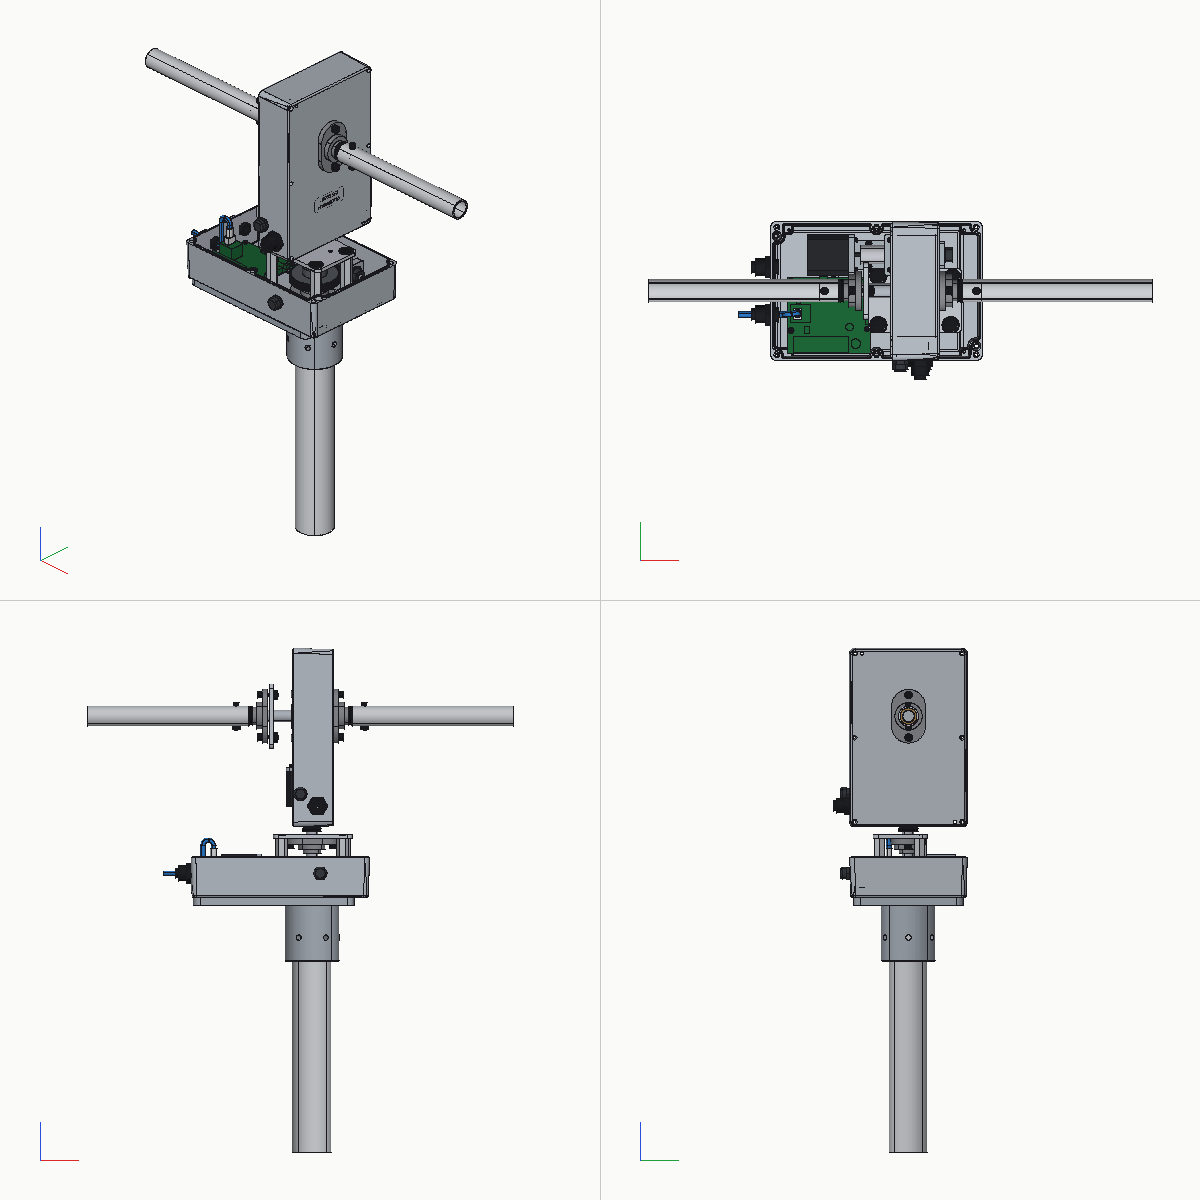
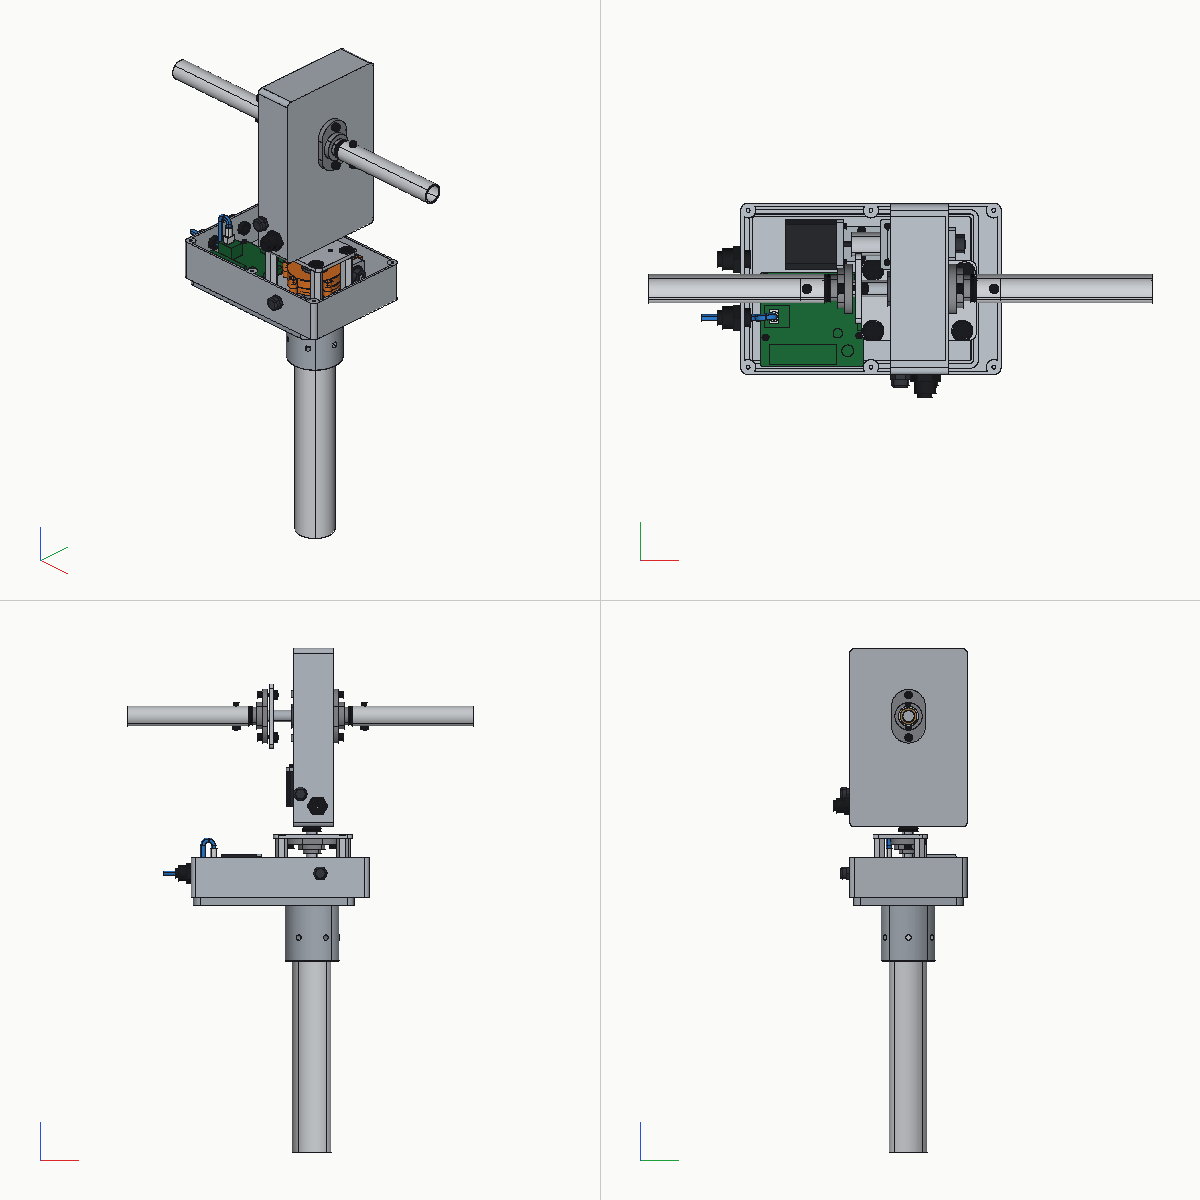
Printed grease covers on both worm drives

diff --git a/QUOTE.md b/QUOTE.md
@@ -18,11 +18,22 @@ tap drill size; the thread is in the table.
 
 | part | qty | notes |
 |---|---|---|
-| `drive_block` | 2 | 6082-T6, 43 x 52 x 104 block; 2x Ø22 H7 x 7 (608), Ø14 thru, Ø22.4 motor pilot, 4x Ø3.4 on 31 square, 4x Ø4.5 in spine |
+| `drive_block` | 2 | 6082-T6, 43 x 52 x 104 block; 2x Ø22 H7 x 7 (608), Ø14 thru, Ø22.4 motor pilot, 4x Ø3.4 on 31 square, 4x Ø4.5 in spine, 2x Ø3.4 beside the bearing seats (gear cover) |
 | `mast_clamp` | 1 | 6082-T6, 200 x 136 x 10 flange on a Ø68 x 70 socket (weldment or machined from plate plus bar); Ø48.7 x 62 bore; 2.6 x 1.5 O-ring cord groove 4 mm in from the flange edge; blind 8 deep: 2x M6, 4x M8, 4x M4, 6x M3; 3x M8 radial |
 | `flange_collar` | 1 | steel, Ø44 x 8 flange on a Ø24 x 12 hub; Ø15 H7 bore with 5 JS9 keyway; 4x Ø4.5 on 34 PCD; M5 set screw in the hub |
 | `az_spindle` | 1 | Ø15 silver steel, 107 long; keyseat 5 P9 x 3 x 20 at 23 from the bottom end; keyseat 5 P9 x 3 x 18 open at the top end |
 | `el_shaft` | 1 | Ø15 silver steel, 194.7 long; keyseat 5 P9 x 3 x 20 at 86.6 from one end; Ø5.2 cross holes at 17.35 and 177.35 |
+
+## Printed
+
+PETG, 4 perimeters, 30% infill. `az_gearcover_*` and `el_gearcover_*` STLs in `out/step/`,
+already turned to print. Melt in five M3 heat-set inserts per low half (lid bosses) and two
+in its trough ends.
+
+| part | qty |
+|---|---|
+| `az_gearcover_low`, `az_gearcover_high` | 1 each |
+| `el_gearcover_low`, `el_gearcover_high` | 1 each |
 
 ## Drilled enclosures
 

diff --git a/README.md b/README.md
@@ -38,6 +38,13 @@ gcad export rotator.gasm rotator.step
   608s in `driveblock.gcad`, jaw-coupled to a StepperOnline 17HS15-1504-ME1K closed-loop
   NEMA17 with a built-in 1000 PPR magnetic encoder. Turn counting and its battery backup
   live on the control board.
+- Each worm and wheel runs in a PETG grease cover, `parts/gearcover.gcad` (`az=1` notches
+  it round the bearing plate posts). It splits on the wheel's mid-plane: the low half takes
+  two M3x14 through the drive block's plates and five M3 heat-set inserts, the high half
+  screws onto it with five M3x10. The trough ends stop 0.5 mm short of the drive block
+  plates, which close them. Fit the low half over the shaft before the wheel. Print the
+  high half on its outer face; the low half stands on its worm trough and needs support
+  under the wheel ring. `./export.sh` writes the four STLs turned that way.
 - The boxes are `parts/std/hammond_1550z220_box.gcad` and `_lid.gcad`. Without
   Hammond's STEP they are drawn from its measurements. Download the STEP from
   https://www.hammfg.com/part/1550Z220, save it as `parts/vendor/1550Z220.stp`, and run

diff --git a/BOM.md b/BOM.md
@@ -60,7 +60,9 @@ the UK adds Irish import VAT and a carrier handling fee.
 | 1 | Takachi CR123A-R battery holder with 140 mm leads, plus a JST PHR-2 housing and 2 SPH crimps | Conrad, item 1882324 |
 | 1 | CR123A lithium cell | any |
 | 1 | RJ45 plug for the PoE cable, crimped inside the box after the cable is through the gland | any |
-| | A4 screws: M3x6 (4), M3x8 countersunk (2), M3x10 (8), M4x10 (4), M4x16 (4), M4x16 countersunk (4), M5x30 (2), M5x6 set screw (1), M6x10 (2), M6x16 (2), M6x20 (4), M8x12 countersunk (4); nuts M4 (4), M6 (4), M5 nyloc (2) | [Accu](https://www.accu.co.uk) |
+| 14 | Ruthex M3 heat-set insert, 5.7 long (gear covers) | [3DJake Ireland](https://www.3djake.ie/) |
+| 1 | PETG filament, about 150 g (gear covers) | [3DJake Ireland](https://www.3djake.ie/) |
+| | A4 screws: M3x6 (4), M3x8 countersunk (2), M3x10 (18), M3x14 (4), M4x10 (4), M4x16 (4), M4x16 countersunk (4), M5x30 (2), M5x6 set screw (1), M6x10 (2), M6x16 (2), M6x20 (4), M8x12 countersunk (4); nuts M4 (4), M6 (4), M5 nyloc (2) | [Accu](https://www.accu.co.uk) |
 
 ## Totals in EUR with 23% VAT
 
